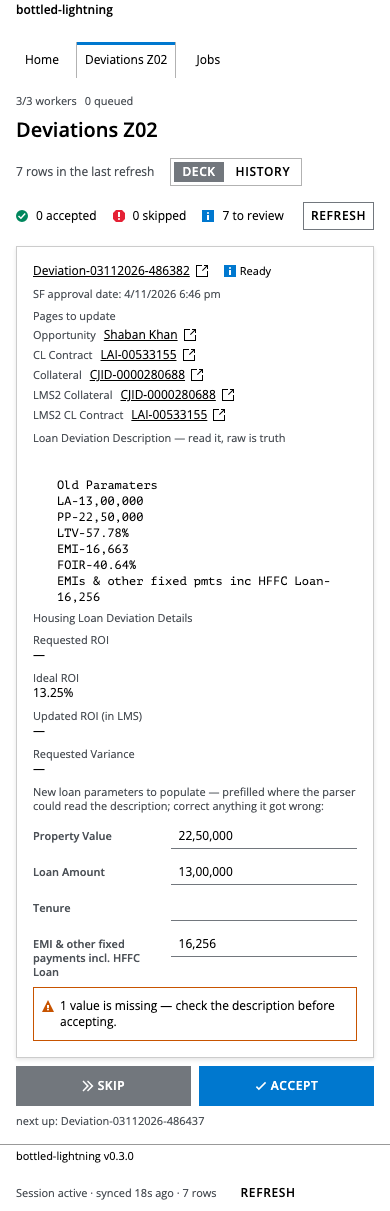
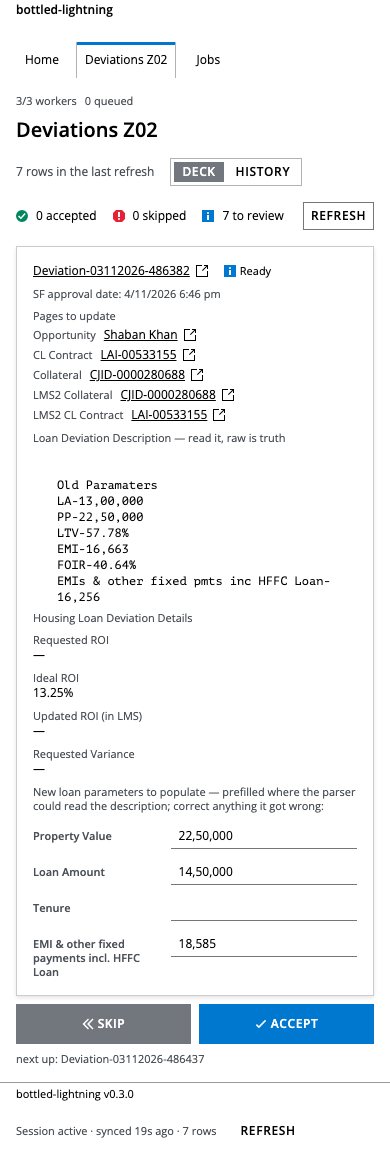
Parse the New parameter block and drop the missing-value warning
Descriptions often carry an Old and a New parameter block; the parser took the
first LA/PP match, which was always the old one. New is the requested state, so
it is the only authoritative block.

- parser: locate 'New Param…' (including the production typo 'Paramater' and
  'NEW PARAMETER:-'), parse only that section; old blocks are never used and a
  field missing from New stays empty instead of inheriting the old value
- aliases: 'New Loan Amount' joins Loan Amount/LA, so verbose New blocks
  ('New loan amount-5,00,000') parse
- card: remove the 'N values missing' warning; partial updates are normal
  (FR-10.10), inputs simply stay empty
- tests: exact Old/New example, no fallback, verbose New block aliases; card
  test now asserts no warning and actions enabled with empty values
- docs: FR v5.8, frontend design partial-values row

Live: re-extracted all seven items. 486382 now yields LA 14,50,000,
PP 22,50,000, EMI 18,585 (the New block) and the card shows them with no
warning. 164 backend tests, 36 frontend, ruff, mypy, tsc, build, audit pass.

diff --git a/frontend/src/components/DecisionCard.tsx b/frontend/src/components/DecisionCard.tsx
@@ -7,8 +7,6 @@
 
 import type { JSX } from 'react'
 import {
-  Banner,
-  BannerContent,
   Card,
   CardContent,
   FlexLayout,
@@ -64,7 +62,6 @@ export function DecisionCard({
   onField,
 }: Props): JSX.Element {
   const ordered = orderedFields(fields)
-  const missing = ordered.filter((field) => (values[field.key] ?? '').trim() === '').length
   const description = detail?.attributes.description ?? null
   const recordHref = row.recordUrl ? absoluteUrl(row.recordUrl, listUrl) : null
   const refRank = (kind: string): number => {
@@ -174,15 +171,6 @@ export function DecisionCard({
               </FormField>
             ))}
           </StackLayout>
-
-          {missing > 0 ? (
-            <Banner status="warning">
-              <BannerContent>
-                {missing} {missing === 1 ? 'value is' : 'values are'} missing — check the
-                description before accepting.
-              </BannerContent>
-            </Banner>
-          ) : null}
         </StackLayout>
       </CardContent>
     </Card>

diff --git a/frontend/src/components/DecisionDeck.test.tsx b/frontend/src/components/DecisionDeck.test.tsx
@@ -125,7 +125,7 @@ describe('DecisionDeck', () => {
     )
   })
 
-  it('warns about missing values without blocking the decision', () => {
+  it('allows a decision when only some values are present', () => {
     const rows = [
       row('Deviation-1-1', {
         fields: {
@@ -147,8 +147,9 @@ describe('DecisionDeck', () => {
       }),
     ]
     render(<DecisionDeck {...deckProps({ rows })} />)
-    expect(screen.getByText(/2 values are missing/)).toBeInTheDocument()
+    expect(screen.queryByText(/values are missing/)).not.toBeInTheDocument()
     expect(screen.getByRole('button', { name: /Accept/ })).toBeEnabled()
+    expect(screen.getByRole('button', { name: /Skip/ })).toBeEnabled()
   })
 
   it('keeps the card when a decision fails', () => {

diff --git a/tests/test_description.py b/tests/test_description.py
@@ -92,6 +92,63 @@ class DescriptionTests(unittest.TestCase):
         self.assertEqual(parsed["property_value"], "22,50,000")
         self.assertEqual(parsed["emi_incl_hffc"], "16,256")
 
+    def test_new_parameter_block_wins_over_old(self) -> None:
+        """Only the New block is authoritative; the Old block is never parsed (FR-3.3)."""
+        text = (
+            "Old Paramaters\n"
+            "LA-13,00,000\n"
+            "PP-22,50,000\n"
+            "LTV-57.78%\n"
+            "EMI-16,663\n"
+            "FOIR-40.64%\n"
+            "EMIs & other fixed pmts inc HFFC Loan-16,256\n"
+            "\n"
+            "New Paramater\n"
+            "LA-14,50,000\n"
+            "PP-22,50,000\n"
+            "LTV-64.44%\n"
+            "EMI-18585\n"
+            "FOIR-46.46\n"
+            "EMIs & other fixed pmts inc HFFC Loan-18585\n"
+        )
+        parsed = parse_description_fields(text)
+        self.assertEqual(parsed["loan_amount"], "14,50,000")
+        self.assertEqual(parsed["property_value"], "22,50,000")
+        self.assertEqual(parsed["emi_incl_hffc"], "18585")
+
+    def test_verbose_new_block_aliases(self) -> None:
+        """New loan amount / PP Value lines in the New block parse."""
+        text = (
+            "OLD PARAMETER\n"
+            "Old loan amount - 6,00,000\n"
+            "Tenure-10.0\n"
+            "PP Value-₹12,00,000\n"
+            "\n"
+            "NEW PARAMETER\n"
+            "New loan amount-5,00,000\n"
+            "Tenure-10.0\n"
+            "PP Value-₹10,00,000\n"
+        )
+        parsed = parse_description_fields(text)
+        self.assertEqual(parsed["loan_amount"], "5,00,000")
+        self.assertEqual(parsed["property_value"], "₹10,00,000")
+        self.assertEqual(parsed["tenure"], "10.0")
+
+    def test_new_parameter_section_does_not_fall_back_to_old(self) -> None:
+        """A field absent from the New block stays empty; old values are not resurrected."""
+        text = (
+            "OLD PARAMETER:-\n"
+            "Property Value Ex. Reg & ST(Financeable):- 22,00,000/-\n"
+            "Loan Amount:- 9,80,000/-\n"
+            "NEW PARAMETER:-\n"
+            "Property Value Ex. Reg & ST(Financeable):- 13,00,000/-\n"
+            "Loan Amount:- 9,80,000/-\n"
+        )
+        parsed = parse_description_fields(text)
+        self.assertEqual(parsed["property_value"], "13,00,000/-")
+        self.assertEqual(parsed["loan_amount"], "9,80,000/-")
+        self.assertIsNone(parsed["tenure"])
+
     def test_compact_emi_line_is_not_the_precalculated_emi(self) -> None:
         """In the compact shape, only the EMIs & line is captured."""
         text = "EMI-16,663\nEMIs & other fixed pmts inc HFFC Loan-16,256\n"

diff --git a/app/workflows/deviations_z02/description.py b/app/workflows/deviations_z02/description.py
@@ -12,7 +12,7 @@ import re
 # are tried in order and the first matching line wins.
 _FIELD_LABELS: dict[str, tuple[str, ...]] = {
     "property_value": ("Property Value", "New PP", "PP"),
-    "loan_amount": ("Loan Amount","LA"),
+    "loan_amount": ("New Loan Amount", "Loan Amount", "LA"),
     "tenure": ("Tenure",),
     "emi_incl_hffc": ("EMIs &", "EMI &"),
 }
@@ -31,6 +31,9 @@ _FIELD_PATTERNS: dict[str, tuple[str, ...]] = {
     key: tuple(_label_pattern(label) for label in labels)
     for key, labels in _FIELD_LABELS.items()
 }
+
+_NEW_SECTION = re.compile(r"^\s*New\s+Param", re.IGNORECASE | re.MULTILINE)
+_OLD_SECTION = re.compile(r"^\s*Old\s+Param", re.IGNORECASE | re.MULTILINE)
 
 _DROP_LINES = (
     r"^\s*(Help |Edit |)?Loan Deviation Description\s*$",
@@ -60,10 +63,16 @@ def parse_description_fields(description: str) -> dict[str, str | None]:
             'tenure': None, 'emi_incl_hffc': None}
     """
 
+    # Descriptions with an Old/New block describe what the loan *should* be in the
+    # New block. Only that block is authoritative; the Old block is the starting point
+    # and must never win (FR-3.3).
+    new_section = _new_section(description)
+    source = new_section if new_section is not None else description
+
     def grab(patterns: tuple[str, ...]) -> str | None:
         """First non-empty value across a set of label patterns."""
         for pattern in patterns:
-            match = re.search(pattern, description)
+            match = re.search(pattern, source)
             if match is None:
                 continue
             value = match.group(1).strip()
@@ -72,6 +81,21 @@ def parse_description_fields(description: str) -> dict[str, str | None]:
         return None
 
     return {key: grab(patterns) for key, patterns in _FIELD_PATTERNS.items()}
+
+
+def _new_section(description: str) -> str | None:
+    """The text after a ``New Parameter`` heading, up to an ``Old`` heading.
+
+    Both spellings seen in production (``New Paramater``) and ``NEW PARAMETER:-``
+    match. Returns ``None`` when the description has no New block, so an old/only
+    description still parses as before.
+    """
+    new = _NEW_SECTION.search(description)
+    if new is None:
+        return None
+    start = new.end()
+    old = _OLD_SECTION.search(description, start)
+    return description[start : old.start()] if old is not None else description[start:]
 
 
 def clean_description(raw: str) -> str:

diff --git a/docs/FR-deviations.md b/docs/FR-deviations.md
@@ -3,7 +3,7 @@
 | | |
 |---|---|
 | **Status** | Draft for review |
-| **Version** | v5.7 |
+| **Version** | v5.8 |
 | **Date** | 2026-11-04 |
 | **Scope** | Loan deviations workflow only |
 | **Supersedes** | The pre-refactor behaviour in `app/deviations*`, `app/sync.py`, `app/jobs.py` |
@@ -132,10 +132,12 @@ Automate the extraction, review and update of loan deviations from Salesforce, a
   `requested_roi`, `ideal_roi`, `updated_roi`, `requested_variance`, record id, record
   URL and the Opportunity link.
 - **FR-3.3** From the description the system parses `property_value`, `loan_amount`,
-  `tenure` and `emi_incl_hffc`. The bare `EMI-` pre-calculated line must never be
-  captured; only the `EMIs & other …` line is. Parsing is best-effort: a value the parser
-  cannot find is left empty, which is neither a failure nor a skip — the operator can
-  supply it in the unified view.
+  `tenure` and `emi_incl_hffc`. When the description contains Old and New parameter
+  blocks, only the **New** block is authoritative; old values are never extracted. If
+  the New block omits a field, that field stays empty rather than inheriting the old
+  value. The bare `EMI-` pre-calculated line must never be captured; only the
+  `EMIs & other …` line is. Parsing is best-effort: a value the parser cannot find is
+  left empty, which is neither a failure nor a skip — the operator can supply it.
 - **FR-3.4** From the Opportunity page the system captures the product type and maps it
   to the CL-contract product using the existing product mapping.
 - **FR-3.5** The system discovers and records page refs for the Opportunity, the matching
@@ -342,9 +344,9 @@ Automate the extraction, review and update of loan deviations from Salesforce, a
   must never be able to accept a deviation. The buttons are keyboard reachable through
   the normal tab order, and the result is announced through `aria-live`.
 - **FR-10.10** The card shows every editable value, prefilled from the extracted value,
-  so missing or unparsed values are visible and correctable before a decision. A missing
-  value is a warning on the card, not a block: the single operator decides whether the
-  deviation is decidable. Accept persists the card's values as proposals (FR-10.2).
+  so missing or unparsed values are visible and correctable before a decision. Missing
+  values are not an error and carry no warning: only one or two values may need an
+  update. Accept persists the card's values as proposals (FR-10.2).
 - **FR-10.11** Decisions never gate sync or extraction. An accepted or rejected item is
   still reconciled with the list view like any other.
 
@@ -405,6 +407,10 @@ absence while a `SUBMIT` lease was held.
   submit action? (Default: explicit action; acceptance only queues.) | FR-10.6 |
 
 ## Appendix C — Change log
+
+- **v5.8** — description parsing prefers the New parameter block and never falls back
+  to the Old block for a missing field; the card no longer warns about missing values
+  (partial updates are normal).
 
 - **v5.7** — the List view is replaced by an accepted-deviations **History** table
   (paginated, newest decision first); jobs filters moved into the column headers; every

diff --git a/docs/frontend-design-deviations.md b/docs/frontend-design-deviations.md
@@ -104,7 +104,7 @@ accepted/skipped/to-review tallies, then Skip and Accept. The header keeps the
 | loading | one card skeleton; tallies show the last snapshot | — |
 | ready | record link + status, approval date, *Pages to update* (Opportunity, CL, collateral, LMS2), raw description panel, ROI grid, four prefilled editable values | Skip, Accept |
 | needs_review | same card + the failure reason above the description | Skip, Accept |
-| missing values | the input is empty and the card says "2 values missing" | Accept still allowed (FR-10.10) |
+| partial values | inputs not present in the New block are empty; no warning | Accept allowed (FR-10.10) |
 | editing a value | input shows Indian grouping (amounts) or months; the draft is local until Accept | Skip discards the draft |
 | decision in flight | Skip/Accept disabled until the PATCH + decision finish | — |
 | decision failed | card stays, the server message appears above it | Retry |
